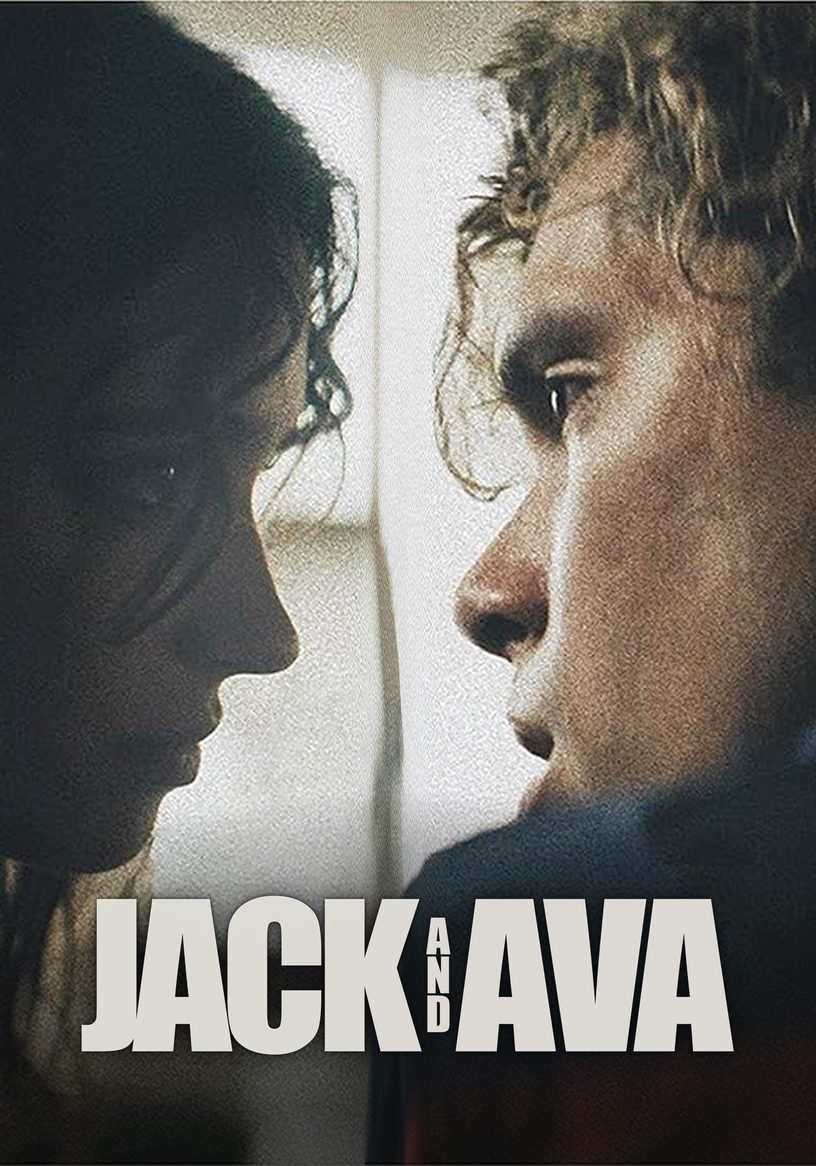
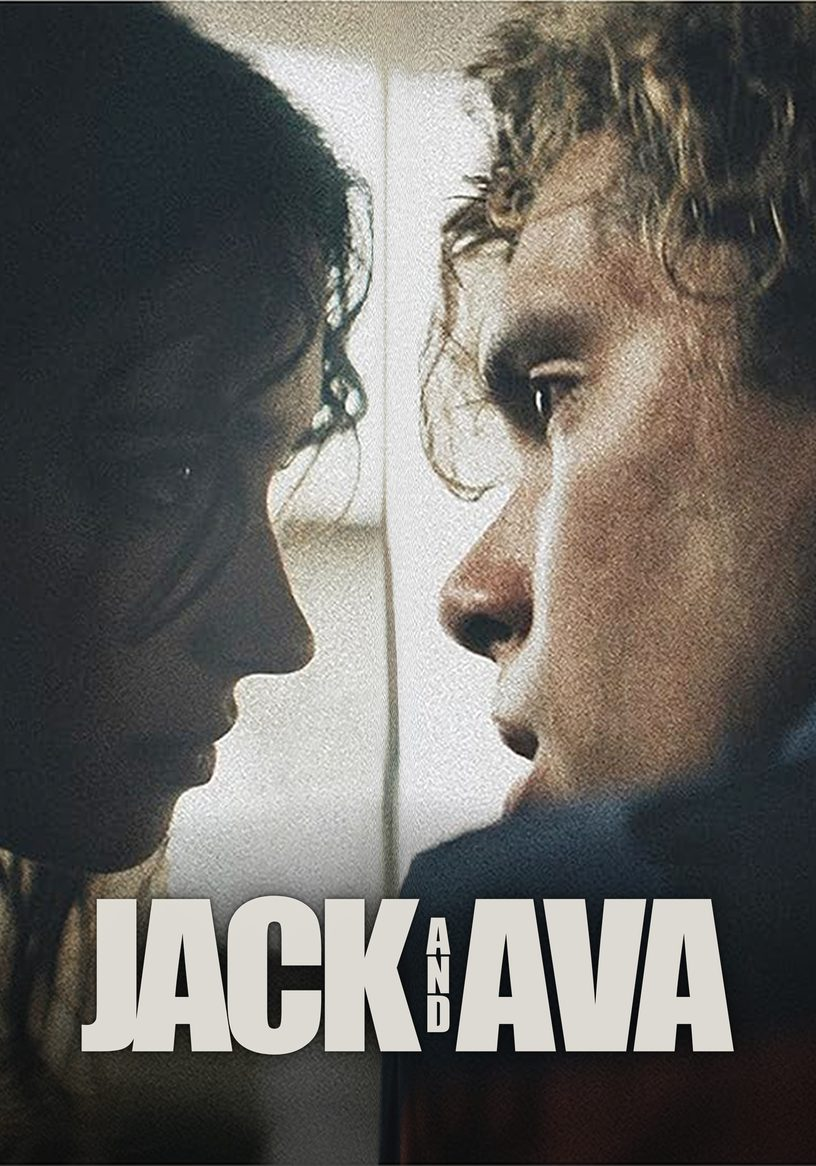
Fix face distortion in the portrait cover
The compression band ran to 0.67 of frame width but Jack's face starts
at 0.6139, so 143px of his face including the nose was being squashed.
Band is now locked inside the measured gap, with an assertion that
refuses any band overlapping either face. Both face regions verify as
byte-identical to the source.

diff --git a/index.html b/index.html
@@ -414,7 +414,7 @@
           asset. The proposed tile is the same frame and the same logotype as Option 1,
           recomposed to fill 408&#215;583 edge to edge, and it clears both chins rather than
           just both mouths. The empty wall between the two of them has also been compressed,
-          which closes the gap from 41 percent of the tile down to 16 and brings noticeably
+          which closes the gap from 41 percent of the tile down to 13 and brings noticeably
           more of both faces into frame. The compression is confined strictly to that wall:
           both faces come through as byte-identical copies, translated but never
           resampled.
